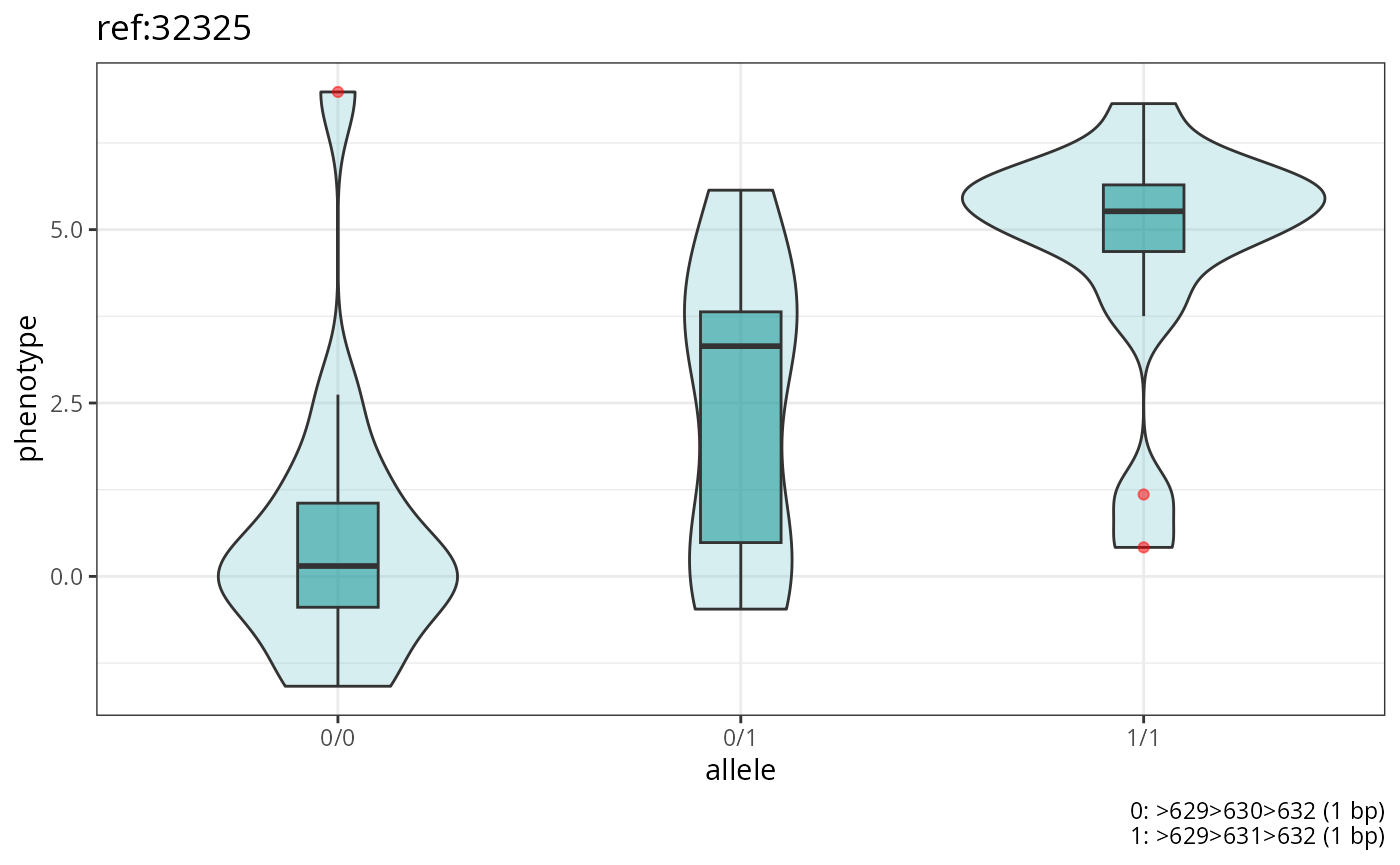
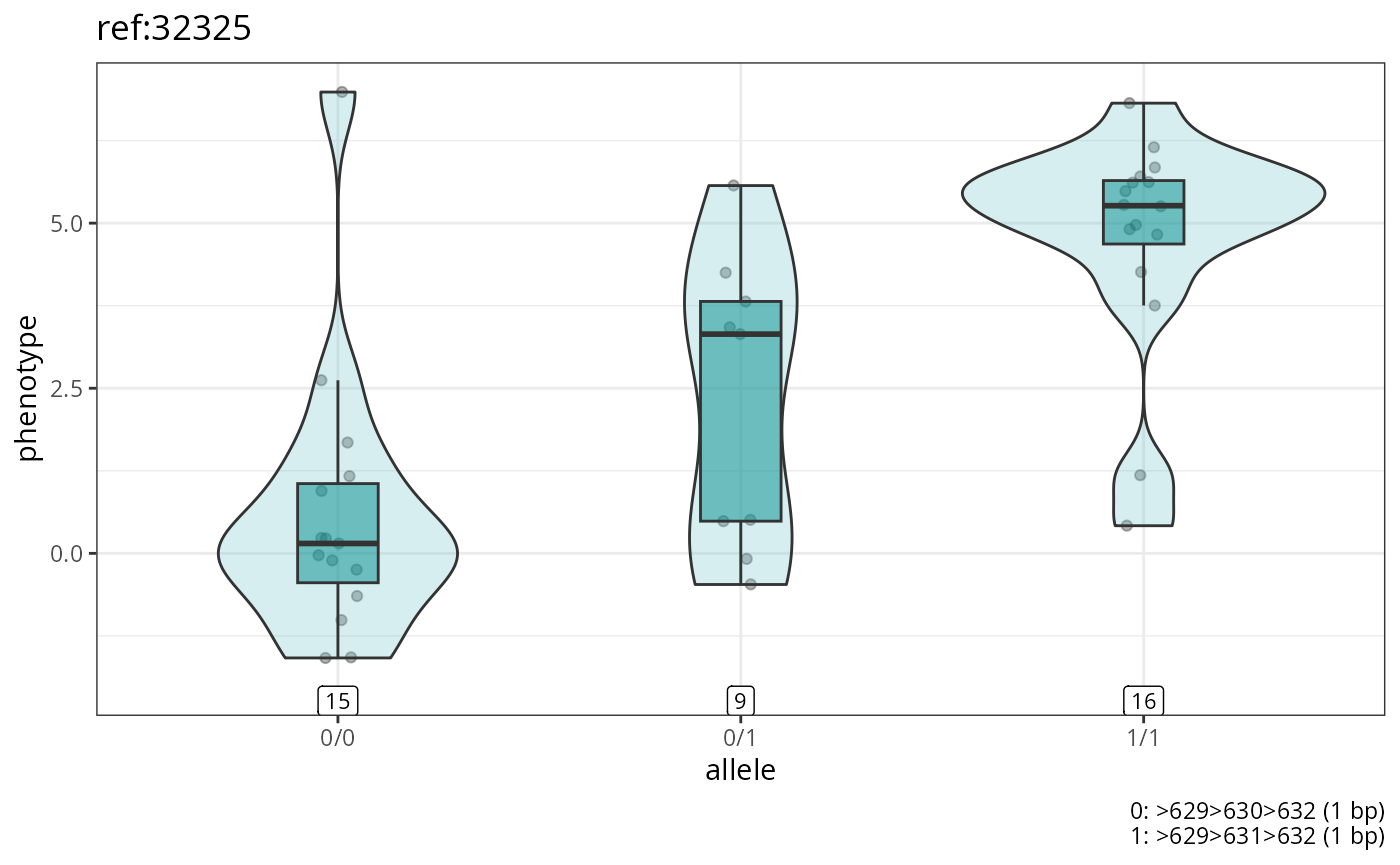
add fdr threshold for manhattan plot

diff --git a/docs/reference/manhattan_plot.html b/docs/reference/manhattan_plot.html
@@ -45,6 +45,7 @@
     <div class="sourceCode"><pre class="sourceCode r"><code><span><span class="fu">manhattan_plot</span><span class="op">(</span></span>
 <span>  <span class="va">assoc</span>,</span>
 <span>  p_threshold <span class="op">=</span> <span class="fl">1e-05</span>,</span>
+<span>  fdr_threshold <span class="op">=</span> <span class="cn">NULL</span>,</span>
 <span>  output_file <span class="op">=</span> <span class="cn">NULL</span>,</span>
 <span>  chr_order <span class="op">=</span> <span class="cn">NULL</span>,</span>
 <span>  show_all_points <span class="op">=</span> <span class="cn">FALSE</span>,</span>
@@ -64,6 +65,10 @@
 
 <dt id="arg-p-threshold">p_threshold<a class="anchor" aria-label="anchor" href="#arg-p-threshold"></a></dt>
 <dd><p>P-value threshold for the horizontal significance line (default: 1e-5).</p></dd>
+
+
+<dt id="arg-fdr-threshold">fdr_threshold<a class="anchor" aria-label="anchor" href="#arg-fdr-threshold"></a></dt>
+<dd><p>FDR threshold for the horizontal significance line. Used if not NULL and a P_ADJUSTED is present.</p></dd>
 
 
 <dt id="arg-output-file">output_file<a class="anchor" aria-label="anchor" href="#arg-output-file"></a></dt>
@@ -111,8 +116,14 @@
 <span class="r-in"><span></span></span>
 <span class="r-in"><span><span class="co"># then do a Manhattan plot (recommended for large dataset).</span></span></span>
 <span class="r-in"><span><span class="co"># Also change the P-value threshold</span></span></span>
-<span class="r-in"><span><span class="fu">manhattan_plot</span><span class="op">(</span><span class="va">assoc_file</span>, p_threshold<span class="op">=</span><span class="fl">1e-3</span><span class="op">)</span></span></span>
+<span class="r-in"><span><span class="fu">manhattan_plot</span><span class="op">(</span><span class="va">assoc</span>, p_threshold<span class="op">=</span><span class="fl">1e-3</span><span class="op">)</span></span></span>
 <span class="r-plt img"><img src="manhattan_plot-2.png" alt="" width="700" height="433"></span>
+<span class="r-in"><span></span></span>
+<span class="r-in"><span><span class="co"># use a FDR threshold</span></span></span>
+<span class="r-in"><span><span class="va">assoc</span><span class="op">$</span><span class="va">P_ADJUSTED</span> <span class="op">=</span> <span class="fu"><a href="https://rdrr.io/r/stats/p.adjust.html" class="external-link">p.adjust</a></span><span class="op">(</span><span class="va">assoc</span><span class="op">$</span><span class="va">P</span>, method<span class="op">=</span><span class="st">'BH'</span><span class="op">)</span></span></span>
+<span class="r-in"><span><span class="fu">manhattan_plot</span><span class="op">(</span><span class="va">assoc</span>, fdr_threshold<span class="op">=</span><span class="fl">0.01</span><span class="op">)</span></span></span>
+<span class="r-plt img"><img src="manhattan_plot-3.png" alt="" width="700" height="433"></span>
+<span class="r-in"><span></span></span>
 </code></pre></div>
     </div>
   </main><aside class="col-md-3"><nav id="toc" aria-label="Table of contents"><h2>On this page</h2>

diff --git a/docs/reference/genotype_boxplots.html b/docs/reference/genotype_boxplots.html
@@ -74,7 +74,8 @@ data.frame could be one row of the association data.frame loaded by
 <span>  <span class="va">phenotype</span>,</span>
 <span>  <span class="va">assoc_query</span>,</span>
 <span>  output_file <span class="op">=</span> <span class="cn">NULL</span>,</span>
-<span>  by_allele <span class="op">=</span> <span class="cn">FALSE</span></span>
+<span>  by_allele <span class="op">=</span> <span class="cn">FALSE</span>,</span>
+<span>  show_n <span class="op">=</span> <span class="cn">TRUE</span></span>
 <span><span class="op">)</span></span></code></pre></div>
     </div>
 
@@ -100,6 +101,10 @@ data.frame could be one row of the association data.frame loaded by
 
 <dt id="arg-by-allele">by_allele<a class="anchor" aria-label="anchor" href="#arg-by-allele"></a></dt>
 <dd><p>group the samples by allele (an heterozygous sample would be shown twice). Default: FALSE (i.e. grouped by genotype)</p></dd>
+
+
+<dt id="arg-show-n">show_n<a class="anchor" aria-label="anchor" href="#arg-show-n"></a></dt>
+<dd><p>should the sample size be shown at the bottom? Default is TRUE.</p></dd>
 
 </dl></div>
     <div class="section level2">

diff --git a/docs/articles/using-custom-test.html b/docs/articles/using-custom-test.html
@@ -59,7 +59,7 @@
                         <h4 data-toc-skip class="author">Jean
 Monlong</h4>
             
-            <h4 data-toc-skip class="date">2026-07-15</h4>
+            <h4 data-toc-skip class="date">2026-08-19</h4>
       
 
       <div class="d-none name"><code>using-custom-test.Rmd</code></div>

diff --git a/docs/articles/intro.html b/docs/articles/intro.html
@@ -59,7 +59,7 @@
                         <h4 data-toc-skip class="author">Jean
 Monlong</h4>
             
-            <h4 data-toc-skip class="date">2026-07-15</h4>
+            <h4 data-toc-skip class="date">2026-08-19</h4>
       
 
       <div class="d-none name"><code>intro.Rmd</code></div>
